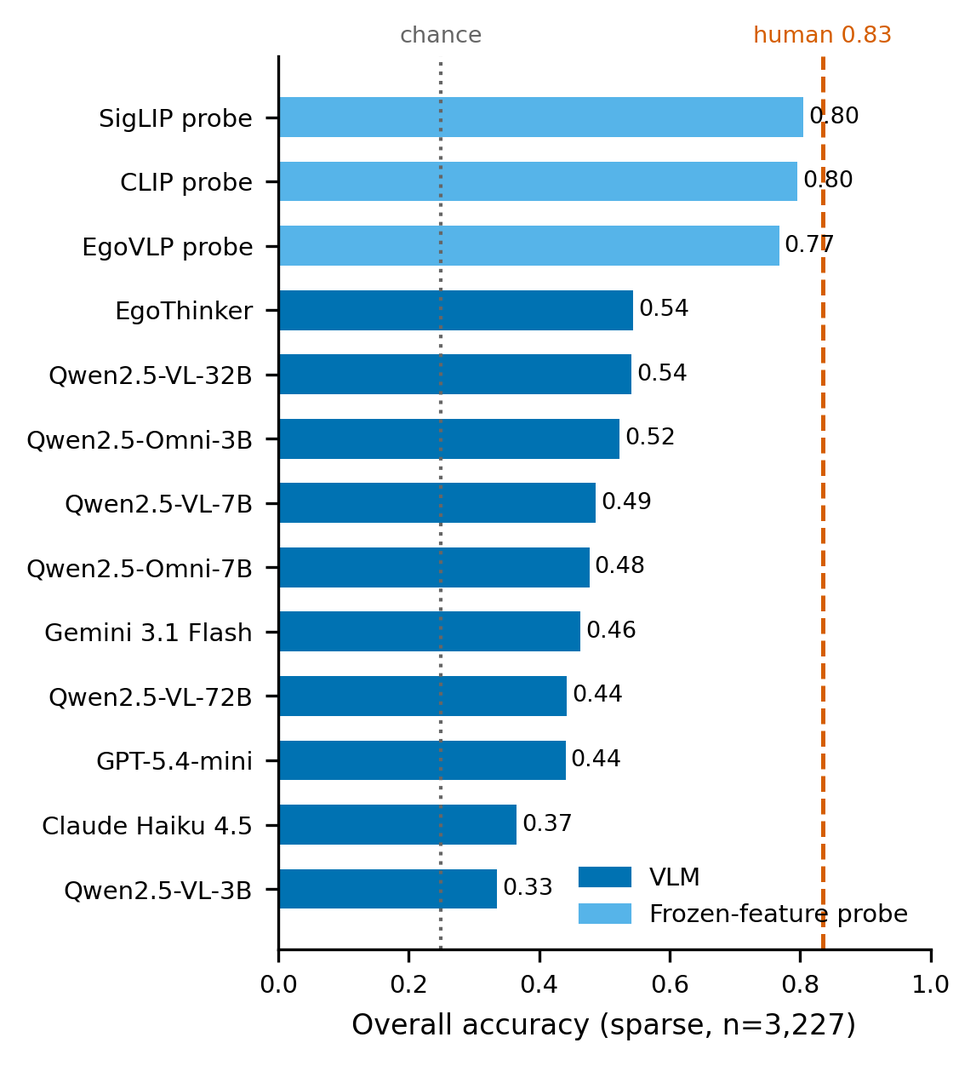
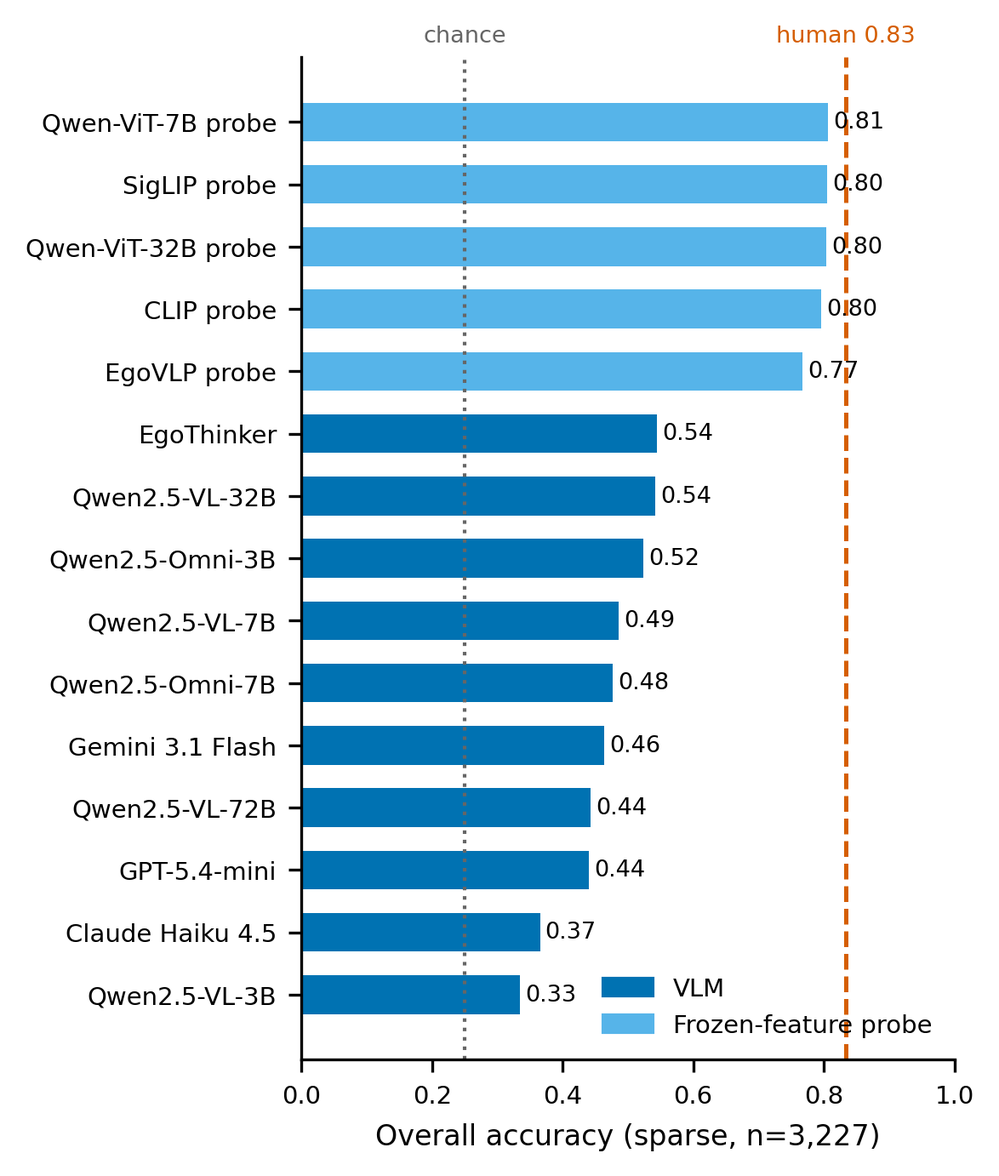
figures/report: add own-encoder (Qwen-ViT 7B/32B) probe to F1 + report
Own vision-tower linear probe (grouped-CV): Qwen2.5-VL-7B tower 0.807,
32B tower 0.804 — on par with CLIP 0.796 / SigLIP 0.805, while the VLMs
themselves score 0.49/0.54 on the task. Sharpest perception-vs-reasoning
evidence (the encoder IS theirs). Tower scale 7B->32B does not move
separability. egoown_report.py rerun to include qwen-vit-probe rows.

Changed region(s): [[0.0305, 0.0, 0.9765, 0.9968]]

diff --git a/egoown_main_table.md b/egoown_main_table.md
@@ -1,0 +1,124 @@
+# EgoOwn main results
+
+Grouped by dataset config + input mode. `—` = label absent / unmeasured.
+
+| model                                       | dataset              | mode                 | opt_seed   |   acc:MINE | acc:PERSON_k   |   acc:SHARED | acc:AMBIGUOUS   | macro_f1   | abstain_precision   | abstain_recall   | over_abstention_rate   |   overall_acc |   parsed_rate |    n |
+|:--------------------------------------------|:---------------------|:---------------------|:-----------|-----------:|:---------------|-------------:|:----------------|:-----------|:--------------------|:-----------------|:-----------------------|--------------:|--------------:|-----:|
+| Claude_Jupiter_V1_P                         | EgoOwn               |                      |            |      1     | —              |        0     | —               | —          | —                   | —                | —                      |         0.8   |         1     |    5 |
+| Claude_Jupiter_V1_P                         | EgoOwn               |                      |            |      1     | —              |        0     | —               | —          | —                   | —                | —                      |         0.8   |         1     |    5 |
+| Qwen2.5-Omni-3B                             | EgoOwn               |                      |            |      0.602 | 0.706          |        0.258 | 0.000           | —          | —                   | —                | —                      |         0.3   |         1     |  899 |
+| Qwen2.5-Omni-3B                             | EgoOwn               |                      |            |      0.5   | 0.484          |        0.625 | 0.000           | —          | —                   | —                | —                      |         0.471 |         1     | 3401 |
+| Qwen2.5-Omni-3B                             | EgoOwn               |                      |            |      0.837 | 0.000          |        0     | —               | —          | —                   | —                | —                      |         0.593 |         0.938 |  563 |
+| Qwen2.5-Omni-3B                             | EgoOwn               |                      |            |      0.75  | —              |        0     | —               | —          | —                   | —                | —                      |         0.6   |         1     |   10 |
+| T20260625-065444                            | EgoOwn               |                      |            |      1     | —              |        0     | —               | —          | —                   | —                | —                      |         0.8   |         1     |    5 |
+| T20260625-070300                            | EgoOwn               |                      |            |      1     | —              |        0     | —               | —          | —                   | —                | —                      |         0.8   |         1     |    5 |
+| T20260625-072942                            | EgoOwn               |                      |            |      0.75  | —              |        0     | —               | —          | —                   | —                | —                      |         0.6   |         1     |   10 |
+| T20260625-073629                            | EgoOwn               |                      |            |      0.602 | 0.706          |        0.258 | 0.000           | —          | —                   | —                | —                      |         0.3   |         1     |  899 |
+| T20260625-073629                            | EgoOwn               |                      |            |      0.5   | 0.484          |        0.625 | 0.000           | —          | —                   | —                | —                      |         0.471 |         1     | 3401 |
+| T20260625-073629                            | EgoOwn               |                      |            |      0.837 | 0.000          |        0     | —               | —          | —                   | —                | —                      |         0.593 |         0.938 |  563 |
+| clip-probe                                  | EgoOwn               | probe-linear         |            |      0.865 | 0.883          |        0.72  | 0.007           | 0.614      | 0.333               | 0.007            | 0.001                  |         0.801 |         1     | 3227 |
+| egovlp-probe                                | EgoOwn               | probe-linear         |            |      0.849 | 0.865          |        0.702 | 0.033           | 0.612      | 0.227               | 0.033            | 0.005                  |         0.786 |         1     | 3227 |
+| qwen-vit-probe                              | EgoOwn               | probe-linear         |            |      0.861 | 0.893          |        0.749 | 0.080           | 0.653      | 0.500               | 0.080            | 0.004                  |         0.813 |         1     | 3227 |
+| qwen-vit:Qwen_Qwen2.5-VL-32B-Instruct-probe | EgoOwn               | probe-linear         |            |      0.86  | 0.888          |        0.75  | 0.040           | 0.635      | 0.333               | 0.040            | 0.004                  |         0.809 |         1     | 3227 |
+| siglip-probe                                | EgoOwn               | probe-linear         |            |      0.865 | 0.879          |        0.778 | 0.067           | 0.651      | 0.385               | 0.067            | 0.005                  |         0.814 |         1     | 3227 |
+| clip-probe                                  | EgoOwn               | probe-linear_groupcv |            |      0.849 | 0.886          |        0.717 | 0.013           | 0.613      | 0.500               | 0.013            | 0.001                  |         0.796 |         1     | 3227 |
+| egovlp-probe                                | EgoOwn               | probe-linear_groupcv |            |      0.84  | 0.851          |        0.657 | 0.040           | 0.598      | 0.429               | 0.040            | 0.003                  |         0.768 |         1     | 3227 |
+| qwen-vit-probe                              | EgoOwn               | probe-linear_groupcv |            |      0.851 | 0.891          |        0.743 | 0.067           | 0.644      | 0.500               | 0.067            | 0.003                  |         0.807 |         1     | 3227 |
+| qwen-vit:Qwen_Qwen2.5-VL-32B-Instruct-probe | EgoOwn               | probe-linear_groupcv |            |      0.854 | 0.881          |        0.747 | 0.060           | 0.640      | 0.474               | 0.060            | 0.003                  |         0.804 |         1     | 3227 |
+| siglip-probe                                | EgoOwn               | probe-linear_groupcv |            |      0.854 | 0.873          |        0.763 | 0.067           | 0.644      | 0.385               | 0.067            | 0.005                  |         0.805 |         1     | 3227 |
+| clip-probe                                  | EgoOwn               | probe-zeroshot       |            |      0.208 | 0.474          |        0.224 | 0.120           | 0.246      | 0.050               | 0.120            | 0.111                  |         0.308 |         1     | 3227 |
+| siglip-probe                                | EgoOwn               | probe-zeroshot       |            |      0.606 | 0.044          |        0.093 | 0.173           | 0.178      | 0.035               | 0.173            | 0.235                  |         0.262 |         1     | 3227 |
+| EgoSweep_Claude                             | EgoOwn               | sparse               | 0          |      0.45  | 0.141          |        0.663 | 0.160           | 0.304      | 0.068               | 0.160            | 0.106                  |         0.365 |         1     | 3227 |
+| EgoSweep_GPT                                | EgoOwn               | sparse               | 0          |      0.587 | 0.188          |        0.689 | 0.220           | 0.373      | 0.057               | 0.220            | 0.179                  |         0.44  |         1     | 3227 |
+| EgoSweep_GPT                                | EgoOwn               | sparse               | 1          |      0.561 | 0.179          |        0.686 | 0.193           | 0.360      | 0.049               | 0.193            | 0.182                  |         0.426 |         1     | 3227 |
+| EgoSweep_GPT                                | EgoOwn               | sparse               | 2          |      0.546 | 0.185          |        0.703 | 0.160           | 0.358      | 0.041               | 0.160            | 0.183                  |         0.425 |         1     | 3227 |
+| EgoSweep_Gemini                             | EgoOwn               | sparse               | 0          |      0.535 | 0.305          |        0.71  | 0.060           | 0.374      | 0.096               | 0.060            | 0.028                  |         0.463 |         1     | 3227 |
+| EgoSweep_Qwen72B                            | EgoOwn               | sparse               | 0          |      0.242 | 0.309          |        0.558 | 0.560           | 0.347      | 0.060               | 0.560            | 0.426                  |         0.35  |         1     | 3227 |
+| EgoSweep_Qwen72B_Local                      | EgoOwn               | sparse               | 0          |      0.337 | 0.467          |        0.587 | 0.400           | 0.404      | 0.070               | 0.400            | 0.258                  |         0.443 |         0.999 | 3227 |
+| EgoThinker-v1                               | EgoOwn               | sparse               | 0          |      0.505 | 0.776          |        0.32  | 0.000           | 0.391      | 0.000               | 0.000            | 0.007                  |         0.544 |         1     | 3227 |
+| Qwen2.5-Omni-3B                             | EgoOwn               | sparse               | 0          |      0.83  | 0.516          |        0.141 | 0.000           | 0.345      | —                   | 0.000            | 0.000                  |         0.523 |         1     | 3227 |
+| Qwen2.5-Omni-7B                             | EgoOwn               | sparse               | 0          |      0.301 | 0.658          |        0.547 | 0.027           | 0.366      | 0.053               | 0.027            | 0.023                  |         0.477 |         1     | 3227 |
+| Qwen2.5-VL-32B-Instruct                     | EgoOwn               | sparse               | 0          |      0.738 | 0.621          |        0.158 | 0.167           | 0.405      | 0.082               | 0.167            | 0.091                  |         0.542 |         1     | 3227 |
+| Qwen2.5-VL-3B-Instruct                      | EgoOwn               | sparse               | 0          |      0.38  | 0.023          |        0.881 | 0.000           | 0.227      | 0.000               | 0.000            | 0.014                  |         0.335 |         1     | 3227 |
+| Qwen2.5-VL-7B-Instruct                      | EgoOwn               | sparse               | 0          |      0.365 | 0.673          |        0.446 | 0.080           | 0.384      | 0.072               | 0.080            | 0.050                  |         0.486 |         1     | 3227 |
+| T20260718-101826                            | EgoOwn               | sparse               | 0          |      0.535 | 0.305          |        0.71  | 0.060           | 0.374      | 0.096               | 0.060            | 0.028                  |         0.463 |         1     | 3227 |
+| T20260718-110608                            | EgoOwn               | sparse               | 0          |      0.45  | 0.141          |        0.663 | 0.160           | 0.304      | 0.068               | 0.160            | 0.106                  |         0.365 |         1     | 3227 |
+| T20260718-122432                            | EgoOwn               | sparse               | 0          |      0.45  | 0.141          |        0.663 | 0.160           | 0.304      | 0.068               | 0.160            | 0.106                  |         0.365 |         1     | 3227 |
+| T20260718-122558                            | EgoOwn               | sparse               | 0          |      0.535 | 0.305          |        0.71  | 0.060           | 0.374      | 0.096               | 0.060            | 0.028                  |         0.463 |         1     | 3227 |
+| T20260718-122845                            | EgoOwn               | sparse               | 0          |      0.365 | 0.673          |        0.446 | 0.080           | 0.384      | 0.072               | 0.080            | 0.050                  |         0.486 |         1     | 3227 |
+| T20260719-002324                            | EgoOwn               | sparse               | 0          |      0.587 | 0.188          |        0.689 | 0.220           | 0.373      | 0.057               | 0.220            | 0.179                  |         0.44  |         1     | 3227 |
+| T20260719-002546                            | EgoOwn               | sparse               | 0          |      0.45  | 0.141          |        0.663 | 0.160           | 0.304      | 0.068               | 0.160            | 0.106                  |         0.365 |         1     | 3227 |
+| T20260719-002815                            | EgoOwn               | sparse               | 0          |      0.535 | 0.305          |        0.71  | 0.060           | 0.374      | 0.096               | 0.060            | 0.028                  |         0.463 |         1     | 3227 |
+| T20260719-003234                            | EgoOwn               | sparse               | 0          |      0.365 | 0.673          |        0.446 | 0.080           | 0.384      | 0.072               | 0.080            | 0.050                  |         0.486 |         1     | 3227 |
+| T20260719-003430                            | EgoOwn               | sparse               | 0          |      0.301 | 0.658          |        0.547 | 0.027           | 0.366      | 0.053               | 0.027            | 0.023                  |         0.477 |         1     | 3227 |
+| T20260719-094639                            | EgoOwn               | sparse               | 0          |      0.38  | 0.023          |        0.881 | 0.000           | 0.227      | 0.000               | 0.000            | 0.014                  |         0.335 |         1     | 3227 |
+| T20260719-122320                            | EgoOwn               | sparse               | 1          |      0.561 | 0.179          |        0.686 | 0.193           | 0.360      | 0.049               | 0.193            | 0.182                  |         0.426 |         1     | 3227 |
+| T20260719-122933                            | EgoOwn               | sparse               | 2          |      0.546 | 0.185          |        0.703 | 0.160           | 0.358      | 0.041               | 0.160            | 0.183                  |         0.425 |         1     | 3227 |
+| T20260719-163122                            | EgoOwn               | sparse               | 0          |      0.242 | 0.309          |        0.558 | 0.560           | 0.347      | 0.060               | 0.560            | 0.426                  |         0.35  |         1     | 3227 |
+| T20260720-004133                            | EgoOwn               | sparse               | 0          |      0.738 | 0.621          |        0.158 | 0.167           | 0.405      | 0.082               | 0.167            | 0.091                  |         0.542 |         1     | 3227 |
+| T20260720-143643                            | EgoOwn               | sparse               | 0          |      0.83  | 0.516          |        0.141 | 0.000           | 0.345      | —                   | 0.000            | 0.000                  |         0.523 |         1     | 3227 |
+| T20260721-145841                            | EgoOwn               | sparse               | 0          |      0.505 | 0.776          |        0.32  | 0.000           | 0.391      | 0.000               | 0.000            | 0.007                  |         0.544 |         1     | 3227 |
+| EgoSweep_Claude                             | EgoOwn_Blind         | blind                | 0          |      0.186 | 0.124          |        0.317 | 0.587           | 0.223      | 0.049               | 0.587            | 0.559                  |         0.209 |         1     | 3227 |
+| EgoSweep_GPT                                | EgoOwn_Blind         | blind                | 0          |      0.355 | 0.120          |        0.415 | 0.540           | 0.311      | 0.042               | 0.540            | 0.595                  |         0.287 |         1     | 3227 |
+| EgoSweep_Gemini                             | EgoOwn_Blind         | blind                | 0          |      0.157 | 0.167          |        0.542 | 0.573           | 0.273      | 0.049               | 0.573            | 0.545                  |         0.263 |         1     | 3227 |
+| EgoSweep_Qwen72B                            | EgoOwn_Blind         | blind                | 0          |      0.196 | 0.239          |        0.175 | 0.807           | 0.262      | 0.052               | 0.807            | 0.718                  |         0.236 |         1     | 3227 |
+| EgoSweep_Qwen72B_Local                      | EgoOwn_Blind         | blind                | 0          |      0.223 | 0.333          |        0.248 | 0.780           | 0.318      | 0.057               | 0.780            | 0.629                  |         0.296 |         1     | 3227 |
+| EgoThinker-v1                               | EgoOwn_Blind         | blind                | 0          |      0.294 | 0.928          |        0.166 | 0.027           | 0.329      | 0.070               | 0.027            | 0.017                  |         0.495 |         1     | 3227 |
+| Qwen2.5-Omni-3B                             | EgoOwn_Blind         | blind                | 0          |      0.702 | 0.255          |        0.093 | 0.027           | 0.245      | 0.082               | 0.027            | 0.015                  |         0.37  |         1     | 3227 |
+| Qwen2.5-Omni-7B                             | EgoOwn_Blind         | blind                | 0          |      0.081 | 0.667          |        0.25  | 0.500           | 0.288      | 0.070               | 0.500            | 0.323                  |         0.359 |         1     | 3227 |
+| Qwen2.5-VL-32B-Instruct                     | EgoOwn_Blind         | blind                | 0          |      0.099 | 0.257          |        0.125 | 0.840           | 0.212      | 0.052               | 0.840            | 0.746                  |         0.199 |         1     | 3227 |
+| Qwen2.5-VL-3B-Instruct                      | EgoOwn_Blind         | blind                | 0          |      0.725 | 0.072          |        0.174 | 0.173           | 0.234      | 0.053               | 0.173            | 0.151                  |         0.333 |         1     | 3227 |
+| Qwen2.5-VL-7B-Instruct                      | EgoOwn_Blind         | blind                | 0          |      0.024 | 0.136          |        0.075 | 0.900           | 0.122      | 0.048               | 0.900            | 0.863                  |         0.118 |         1     | 3227 |
+| T20260718-101826                            | EgoOwn_Blind         | blind                | 0          |      0.157 | 0.167          |        0.542 | 0.573           | 0.273      | 0.049               | 0.573            | 0.545                  |         0.263 |         1     | 3227 |
+| T20260718-110608                            | EgoOwn_Blind         | blind                | 0          |      0.186 | 0.124          |        0.317 | 0.587           | 0.223      | 0.049               | 0.587            | 0.559                  |         0.209 |         1     | 3227 |
+| T20260718-122432                            | EgoOwn_Blind         | blind                | 0          |      0.186 | 0.124          |        0.317 | 0.587           | 0.223      | 0.049               | 0.587            | 0.559                  |         0.209 |         1     | 3227 |
+| T20260718-122558                            | EgoOwn_Blind         | blind                | 0          |      0.157 | 0.167          |        0.542 | 0.573           | 0.273      | 0.049               | 0.573            | 0.545                  |         0.263 |         1     | 3227 |
+| T20260718-122845                            | EgoOwn_Blind         | blind                | 0          |      0.024 | 0.136          |        0.075 | 0.900           | 0.122      | 0.048               | 0.900            | 0.863                  |         0.118 |         1     | 3227 |
+| T20260719-002324                            | EgoOwn_Blind         | blind                | 0          |      0.355 | 0.120          |        0.415 | 0.540           | 0.311      | 0.042               | 0.540            | 0.595                  |         0.287 |         1     | 3227 |
+| T20260719-002546                            | EgoOwn_Blind         | blind                | 0          |      0.186 | 0.124          |        0.317 | 0.587           | 0.223      | 0.049               | 0.587            | 0.559                  |         0.209 |         1     | 3227 |
+| T20260719-002815                            | EgoOwn_Blind         | blind                | 0          |      0.157 | 0.167          |        0.542 | 0.573           | 0.273      | 0.049               | 0.573            | 0.545                  |         0.263 |         1     | 3227 |
+| T20260719-003234                            | EgoOwn_Blind         | blind                | 0          |      0.024 | 0.136          |        0.075 | 0.900           | 0.122      | 0.048               | 0.900            | 0.863                  |         0.118 |         1     | 3227 |
+| T20260719-003430                            | EgoOwn_Blind         | blind                | 0          |      0.081 | 0.667          |        0.25  | 0.500           | 0.288      | 0.070               | 0.500            | 0.323                  |         0.359 |         1     | 3227 |
+| T20260719-094639                            | EgoOwn_Blind         | blind                | 0          |      0.725 | 0.072          |        0.174 | 0.173           | 0.234      | 0.053               | 0.173            | 0.151                  |         0.333 |         1     | 3227 |
+| T20260719-163122                            | EgoOwn_Blind         | blind                | 0          |      0.196 | 0.239          |        0.175 | 0.807           | 0.262      | 0.052               | 0.807            | 0.718                  |         0.236 |         1     | 3227 |
+| T20260720-004133                            | EgoOwn_Blind         | blind                | 0          |      0.099 | 0.257          |        0.125 | 0.840           | 0.212      | 0.052               | 0.840            | 0.746                  |         0.199 |         1     | 3227 |
+| T20260720-143643                            | EgoOwn_Blind         | blind                | 0          |      0.702 | 0.255          |        0.093 | 0.027           | 0.245      | 0.082               | 0.027            | 0.015                  |         0.37  |         1     | 3227 |
+| T20260721-013653                            | EgoOwn_Blind         | blind                | 0          |      0.294 | 0.928          |        0.166 | 0.027           | 0.329      | 0.070               | 0.027            | 0.017                  |         0.495 |         1     | 3227 |
+| EgoSweep_GPT                                | EgoOwn_Method        | sparse               | 0          |      0.282 | 0.103          |        0.334 | 0.800           | 0.275      | 0.056               | 0.800            | 0.652                  |         0.249 |         1     | 3227 |
+| EgoSweep_Qwen7B_Local                       | EgoOwn_Method        | sparse               | 0          |      0.363 | 0.401          |        0.494 | 0.253           | 0.355      | 0.061               | 0.253            | 0.190                  |         0.401 |         0.999 | 3227 |
+| T20260721-071513                            | EgoOwn_Method        | sparse               | 0          |      0.282 | 0.103          |        0.334 | 0.800           | 0.275      | 0.056               | 0.800            | 0.652                  |         0.249 |         1     | 3227 |
+| T20260721-224733                            | EgoOwn_Method        | sparse               | 0          |      0.363 | 0.401          |        0.494 | 0.253           | 0.355      | 0.061               | 0.253            | 0.190                  |         0.401 |         0.999 | 3227 |
+| EgoSweep_Claude                             | EgoOwn_Single        | single               | 0          |      0.45  | 0.117          |        0.617 | 0.180           | 0.289      | 0.066               | 0.180            | 0.123                  |         0.347 |         1     | 3226 |
+| EgoSweep_GPT                                | EgoOwn_Single        | single               | 0          |      0.452 | 0.093          |        0.667 | 0.293           | 0.317      | 0.041               | 0.293            | 0.337                  |         0.355 |         1     | 3226 |
+| EgoSweep_Gemini                             | EgoOwn_Single        | single               | 0          |      0.46  | 0.317          |        0.71  | 0.027           | 0.350      | 0.031               | 0.027            | 0.041                  |         0.44  |         1     | 3226 |
+| EgoSweep_Qwen72B                            | EgoOwn_Single        | single               | 0          |      0.217 | 0.078          |        0.482 | 0.633           | 0.249      | 0.051               | 0.633            | 0.573                  |         0.241 |         1     | 3226 |
+| EgoSweep_Qwen72B_Local                      | EgoOwn_Single        | single               | 0          |      0.293 | 0.160          |        0.608 | 0.453           | 0.304      | 0.054               | 0.453            | 0.387                  |         0.318 |         1     | 3226 |
+| EgoThinker-v1                               | EgoOwn_Single        | single               | 0          |      0.472 | 0.612          |        0.479 | 0.033           | 0.395      | 0.078               | 0.033            | 0.019                  |         0.506 |         1     | 3226 |
+| Qwen2.5-Omni-3B                             | EgoOwn_Single        | single               | 0          |      0.799 | 0.570          |        0.062 | 0.000           | 0.321      | 0.000               | 0.000            | 0.001                  |         0.516 |         1     | 3226 |
+| Qwen2.5-Omni-7B                             | EgoOwn_Single        | single               | 0          |      0.224 | 0.558          |        0.621 | 0.027           | 0.331      | 0.025               | 0.027            | 0.050                  |         0.427 |         1     | 3226 |
+| Qwen2.5-VL-32B-Instruct                     | EgoOwn_Single        | single               | 0          |      0.63  | 0.326          |        0.287 | 0.380           | 0.376      | 0.058               | 0.380            | 0.300                  |         0.429 |         1     | 3226 |
+| Qwen2.5-VL-3B-Instruct                      | EgoOwn_Single        | single               | 0          |      0.281 | 0.013          |        0.91  | 0.013           | 0.203      | 0.025               | 0.013            | 0.025                  |         0.303 |         1     | 3226 |
+| Qwen2.5-VL-7B-Instruct                      | EgoOwn_Single        | single               | 0          |      0.271 | 0.306          |        0.524 | 0.420           | 0.329      | 0.056               | 0.420            | 0.343                  |         0.346 |         1     | 3226 |
+| T20260718-101826                            | EgoOwn_Single        | single               | 0          |      0.46  | 0.317          |        0.71  | 0.027           | 0.350      | 0.031               | 0.027            | 0.041                  |         0.44  |         1     | 3226 |
+| T20260718-110608                            | EgoOwn_Single        | single               | 0          |      0.45  | 0.117          |        0.617 | 0.180           | 0.289      | 0.066               | 0.180            | 0.123                  |         0.347 |         1     | 3226 |
+| T20260718-122432                            | EgoOwn_Single        | single               | 0          |      0.45  | 0.117          |        0.617 | 0.180           | 0.289      | 0.066               | 0.180            | 0.123                  |         0.347 |         1     | 3226 |
+| T20260718-122558                            | EgoOwn_Single        | single               | 0          |      0.46  | 0.317          |        0.71  | 0.027           | 0.350      | 0.031               | 0.027            | 0.041                  |         0.44  |         1     | 3226 |
+| T20260718-122845                            | EgoOwn_Single        | single               | 0          |      0.271 | 0.306          |        0.524 | 0.420           | 0.329      | 0.056               | 0.420            | 0.343                  |         0.346 |         1     | 3226 |
+| T20260719-002324                            | EgoOwn_Single        | single               | 0          |      0.452 | 0.093          |        0.667 | 0.293           | 0.317      | 0.041               | 0.293            | 0.337                  |         0.355 |         1     | 3226 |
+| T20260719-002546                            | EgoOwn_Single        | single               | 0          |      0.45  | 0.117          |        0.617 | 0.180           | 0.289      | 0.066               | 0.180            | 0.123                  |         0.347 |         1     | 3226 |
+| T20260719-002815                            | EgoOwn_Single        | single               | 0          |      0.46  | 0.317          |        0.71  | 0.027           | 0.350      | 0.031               | 0.027            | 0.041                  |         0.44  |         1     | 3226 |
+| T20260719-003234                            | EgoOwn_Single        | single               | 0          |      0.271 | 0.306          |        0.524 | 0.420           | 0.329      | 0.056               | 0.420            | 0.343                  |         0.346 |         1     | 3226 |
+| T20260719-003430                            | EgoOwn_Single        | single               | 0          |      0.224 | 0.558          |        0.621 | 0.027           | 0.331      | 0.025               | 0.027            | 0.050                  |         0.427 |         1     | 3226 |
+| T20260719-094639                            | EgoOwn_Single        | single               | 0          |      0.281 | 0.013          |        0.91  | 0.013           | 0.203      | 0.025               | 0.013            | 0.025                  |         0.303 |         1     | 3226 |
+| T20260719-163122                            | EgoOwn_Single        | single               | 0          |      0.217 | 0.078          |        0.482 | 0.633           | 0.249      | 0.051               | 0.633            | 0.573                  |         0.241 |         1     | 3226 |
+| T20260720-004133                            | EgoOwn_Single        | single               | 0          |      0.63  | 0.326          |        0.287 | 0.380           | 0.376      | 0.058               | 0.380            | 0.300                  |         0.429 |         1     | 3226 |
+| T20260720-143643                            | EgoOwn_Single        | single               | 0          |      0.799 | 0.570          |        0.062 | 0.000           | 0.321      | 0.000               | 0.000            | 0.001                  |         0.516 |         1     | 3226 |
+| T20260721-013652                            | EgoOwn_Single        | single               | 0          |      0.472 | 0.612          |        0.479 | 0.033           | 0.395      | 0.078               | 0.033            | 0.019                  |         0.506 |         1     | 3226 |
+| EgoSweep_GPT                                | EgoOwn_Single_Method | single               | 0          |      0.216 | 0.057          |        0.278 | 0.827           | 0.227      | 0.051               | 0.827            | 0.751                  |         0.197 |         1     | 3226 |
+| EgoSweep_Qwen7B_Local                       | EgoOwn_Single_Method | single               | 0          |      0.35  | 0.218          |        0.544 | 0.387           | 0.320      | 0.059               | 0.387            | 0.301                  |         0.343 |         1     | 3226 |
+| T20260721-071513                            | EgoOwn_Single_Method | single               | 0          |      0.216 | 0.057          |        0.278 | 0.827           | 0.227      | 0.051               | 0.827            | 0.751                  |         0.197 |         1     | 3226 |
+| T20260721-224733                            | EgoOwn_Single_Method | single               | 0          |      0.35  | 0.218          |        0.544 | 0.387           | 0.320      | 0.059               | 0.387            | 0.301                  |         0.343 |         1     | 3226 |
+
+- prompt_version: v2-2026-07-04, v2-2026-07-04+evidence_cot-v1  ⚠ MIXED — results not comparable!
+- ref_field: human_label
+- eval_code_rev: 1929af9, 3224621, 492a050, 90a5257, a571aa6, e82f3a7  ⚠ MIXED — results not comparable!
